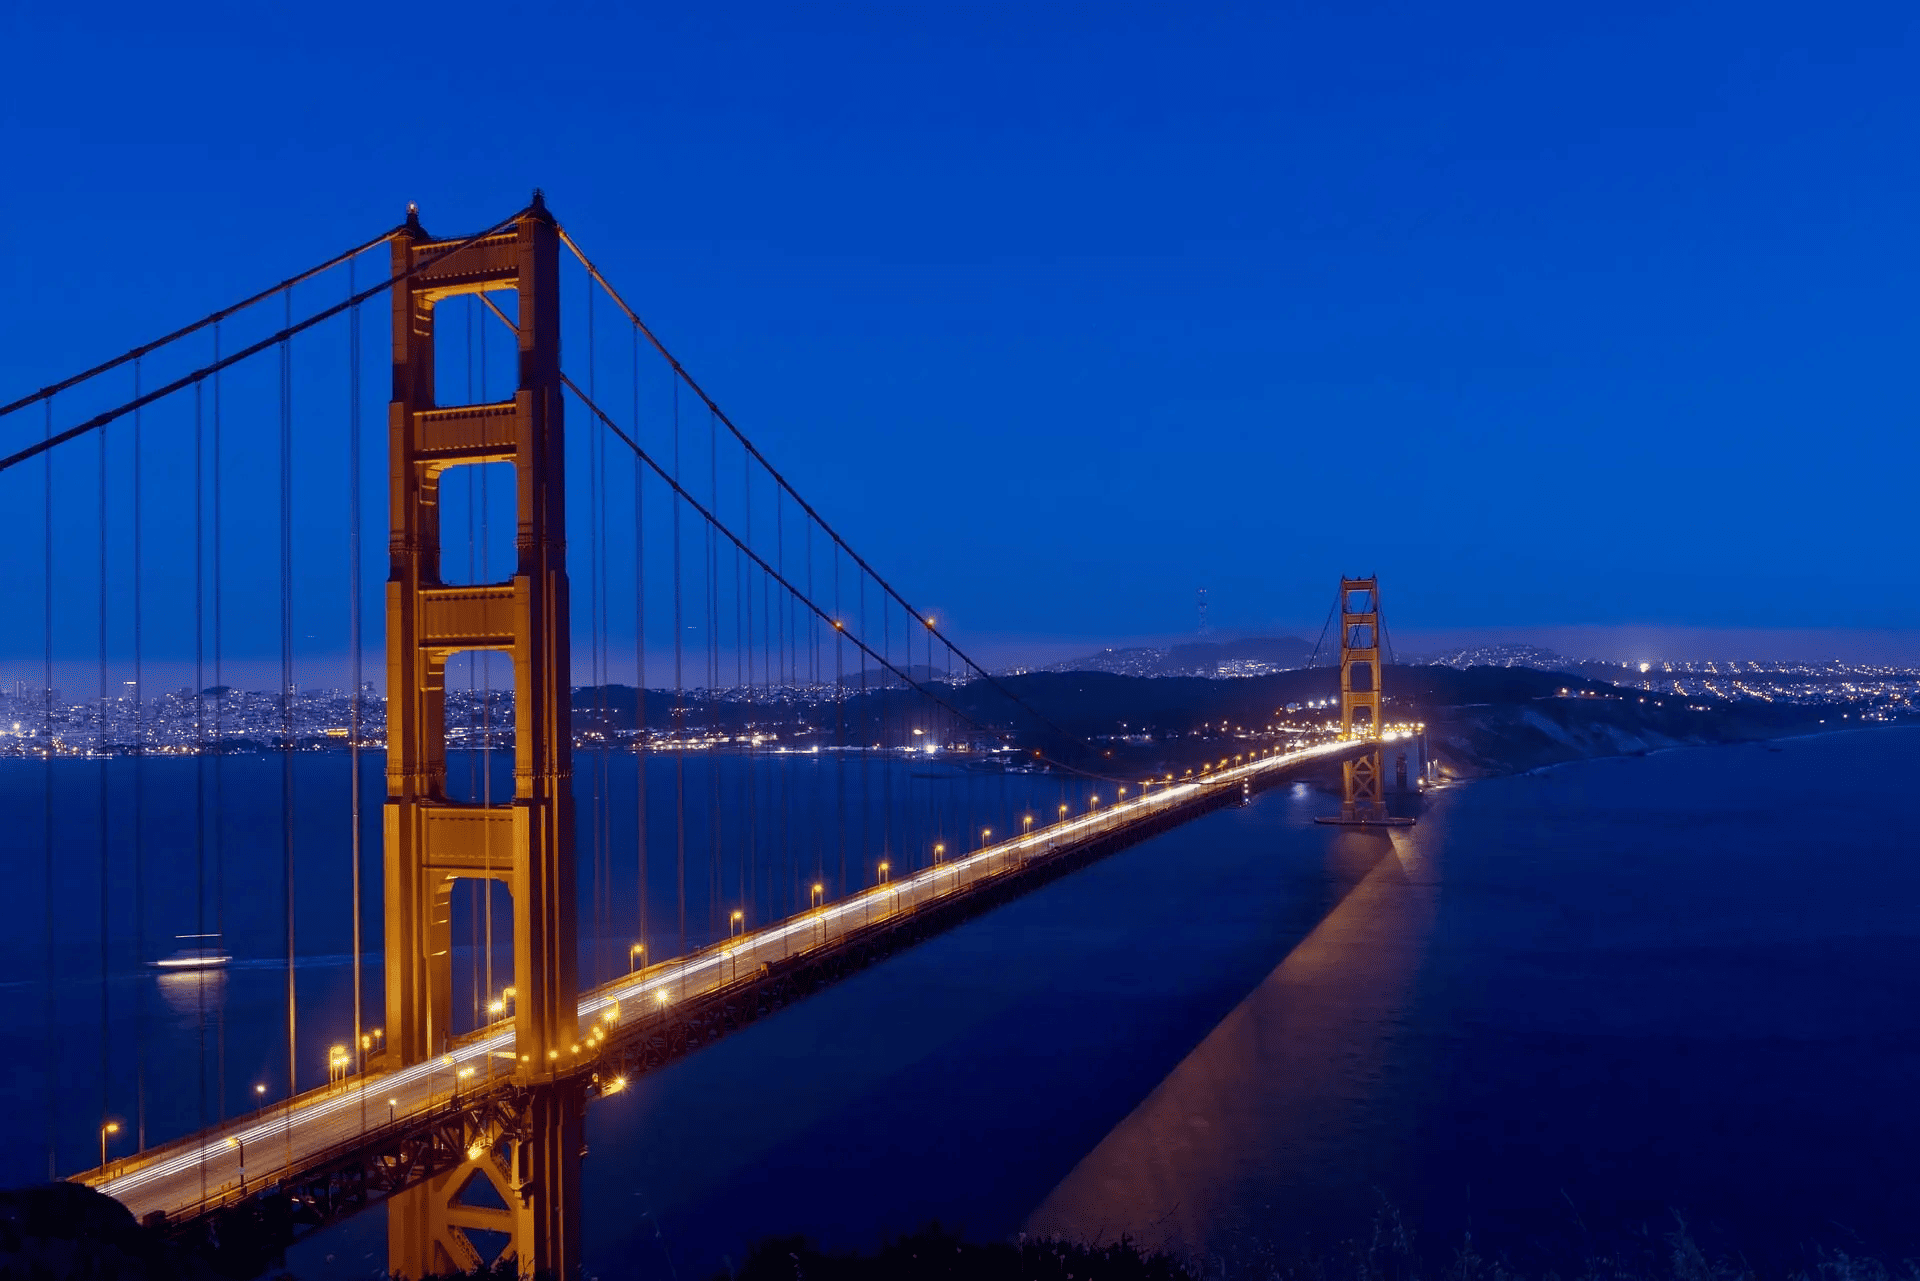
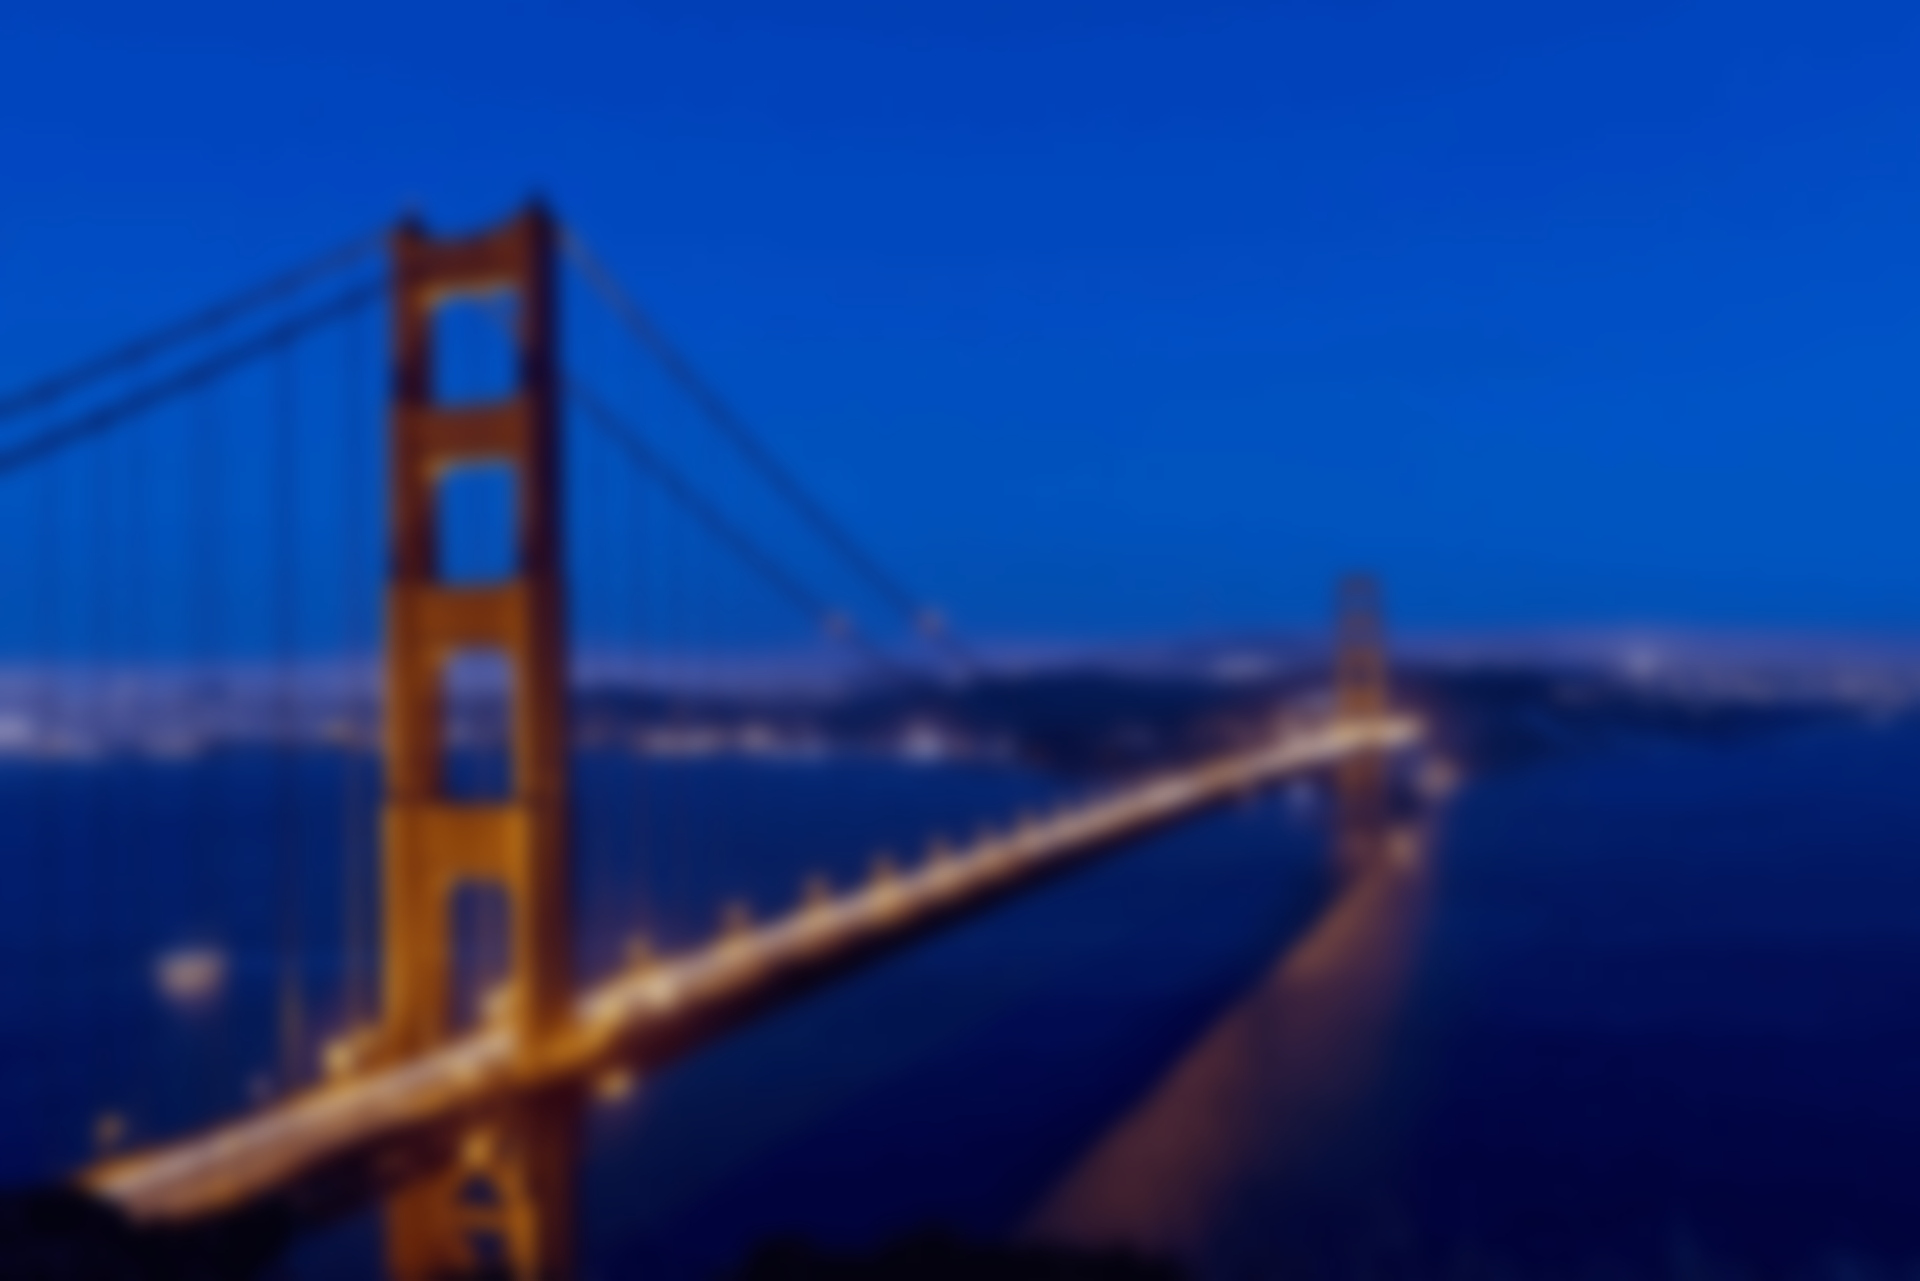
bg blur

diff --git a/style.css b/style.css
@@ -26,7 +26,6 @@ body {
     background-image: url('./imgs/mostNight.png');
     background-size: cover;
     background-attachment: fixed;
-    backdrop-filter: blur(10px);
     font-family: Arial, sans-serif;
     color: white;
     margin: 0;
@@ -73,9 +72,6 @@ p {
     transition: transform 0.3s ease;
 }
 
-.bridge-item img:hover {
-    transform: scale(1.05);
-}
 
 .text {
     width: 50%;
